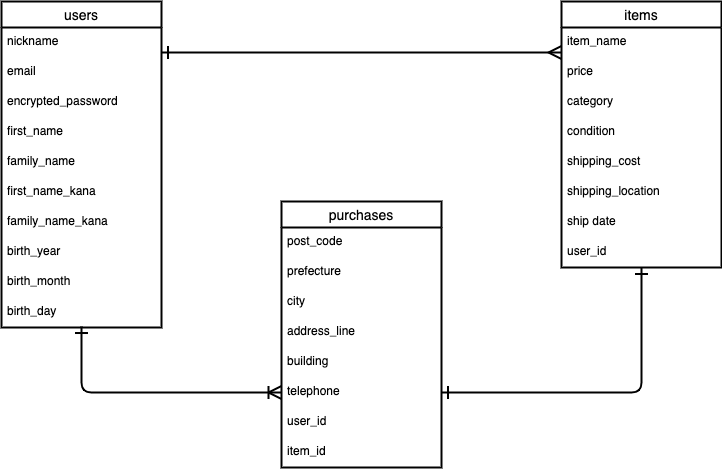
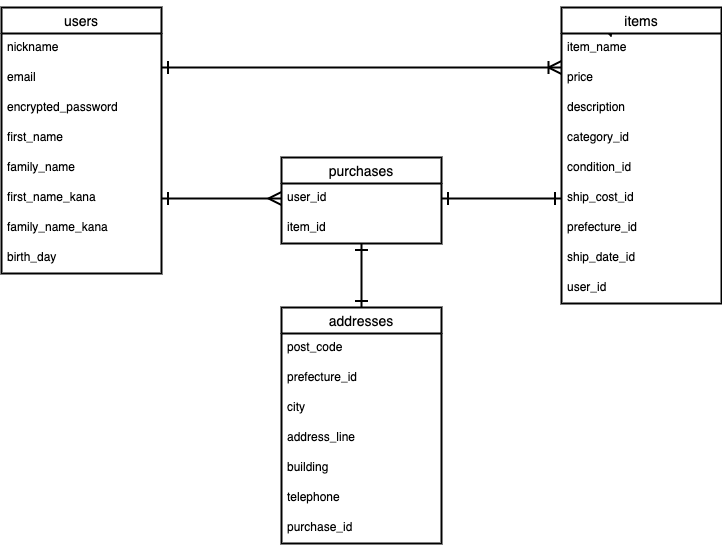
ER図およびREADMEの修正

diff --git a/README.md b/README.md
@@ -2,18 +2,16 @@
 
 ## users テーブル
 
-| Column             | Type    | Options     |
-| ------------------ | ------- | ----------- |
-| nickname           | string  | null: false |
-| email              | string  | null: false |
-| encrypted_password | string  | null: false |
-| first_name         | string  | null: false |
-| family_name        | string  | null: false |
-| first_name_kana    | string  | null: false |
-| family_name_kana   | string  | null: false |
-| birth_year         | integer | null: false |
-| birth_month        | integer | null: false |
-| birth_day          | integer | null: false |
+| Column             | Type    | Options                   |
+| ------------------ | ------- | ------------------------- |
+| nickname           | string  | null: false, unique: true |
+| email              | string  | null: false               |
+| encrypted_password | string  | null: false               |
+| first_name         | string  | null: false               |
+| family_name        | string  | null: false               |
+| first_name_kana    | string  | null: false               |
+| family_name_kana   | string  | null: false               |
+| birth_day          | date    | null: false               |
 
 ### Association
 
@@ -22,36 +20,48 @@
 
 ## items テーブル
 
-| Column            | Type       | Options                        |
-| ----------------- | ---------- | ------------------------------ |
-| item_name         | string     | null: false                    |
-| price             | integer    | null: false                    |
-| category          | string     | null: false                    |
-| condition         | string     | null: false                    |
-| shipping_cost     | string     | null: false                    |
-| shipping_location | string     | null: false                    |
-| ship date         | string     | null: false                    |
-| user              | references | null: false, foreign_key: true |
+| Column        | Type       | Options                        |
+| ------------- | ---------- | ------------------------------ |
+| item_name     | string     | null: false                    |
+| price         | integer    | null: false                    |
+| description   | string     | null: false                    |
+| category_id   | integer    | null: false                    |
+| condition_id  | integer    | null: false                    |
+| ship_cost_id  | integer    | null: false                    |
+| prefecture_id | integer    | null: false                    |
+| ship_date_id  | integer    | null: false                    |
+| user          | references | null: false, foreign_key: true |
 
 ### Association
 
 - belongs_to :user
 - has_one :purchase
 
-## purchases テーブル
+# purchases テーブル
 
-| Column       | Type       | Options                        |
-| ------------ | ---------- | ------------------------------ |
-| post_code    | integer    | null: false                    |
-| prefecture   | string     | null: false                    |
-| city         | string     | null: false                    |
-| address_line | string     | null: false                    |
-| building     | string     |                                |
-| telephone    | integer    | null: false                    |
-| use          | references | null: false, foreign_key: true |
-| item         | references | null: false, foreign_key: true |
+| Column | Type       | Options                        |
+| ------ | ---------- | ------------------------------ |
+| user   | references | null: false, foreign_key: true |
+| item   | references | null: false, foreign_key: true |
 
 ### Association
 
 - belongs_to :user
+- belongs_to :item
+- has_one :address
+
+## addresses テーブル
+
+| Column        | Type       | Options                        |
+| ------------- | ---------- | ------------------------------ |
+| post_code     | string     | null: false                    |
+| prefecture_id | integer    | null: false                    |
+| city          | string     | null: false                    |
+| address_line  | string     | null: false                    |
+| building      | string     |                                |
+| telephone     | string     | null: false                    |
+| purchase      | references | null: false, foreign_key: true |
+
+### Association
+
 - belongs_to :purchase
